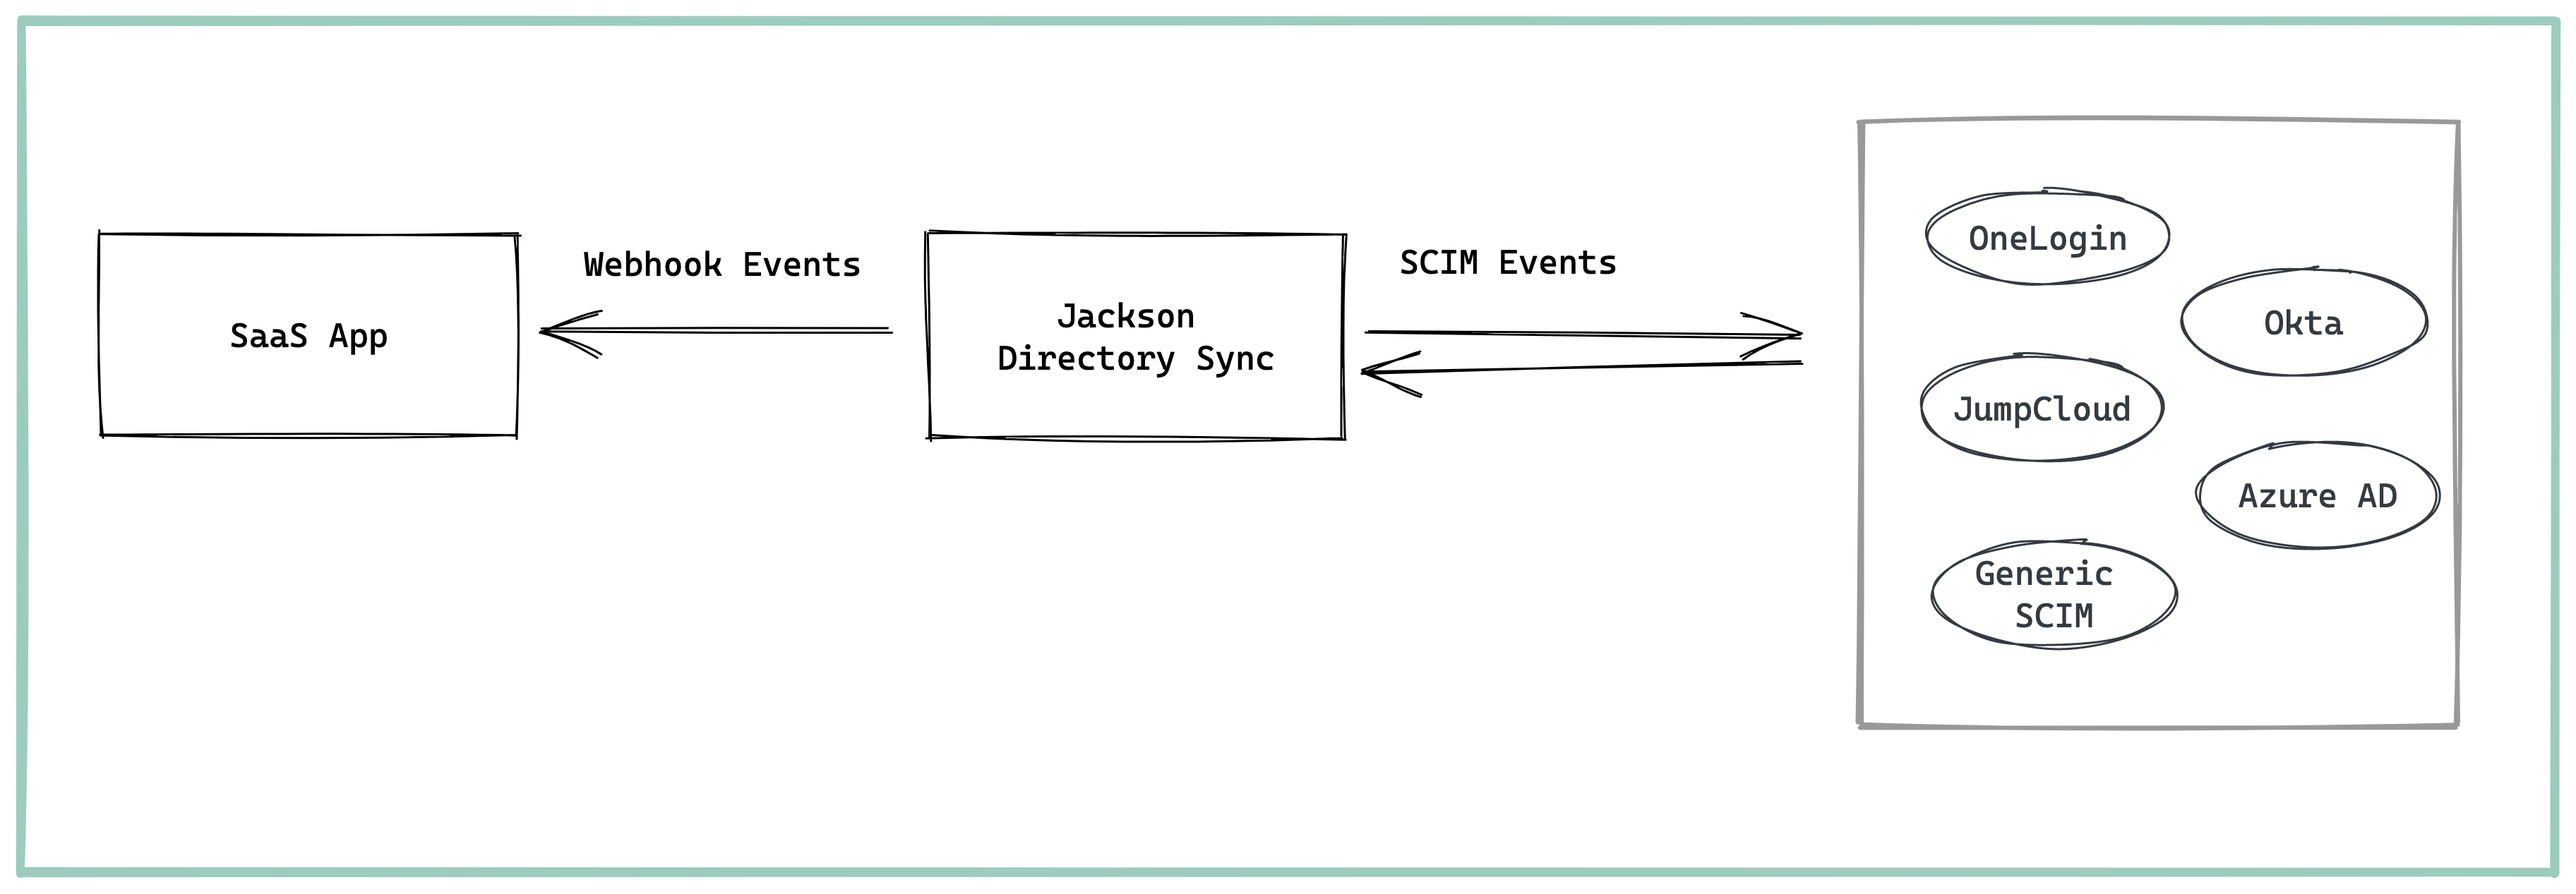
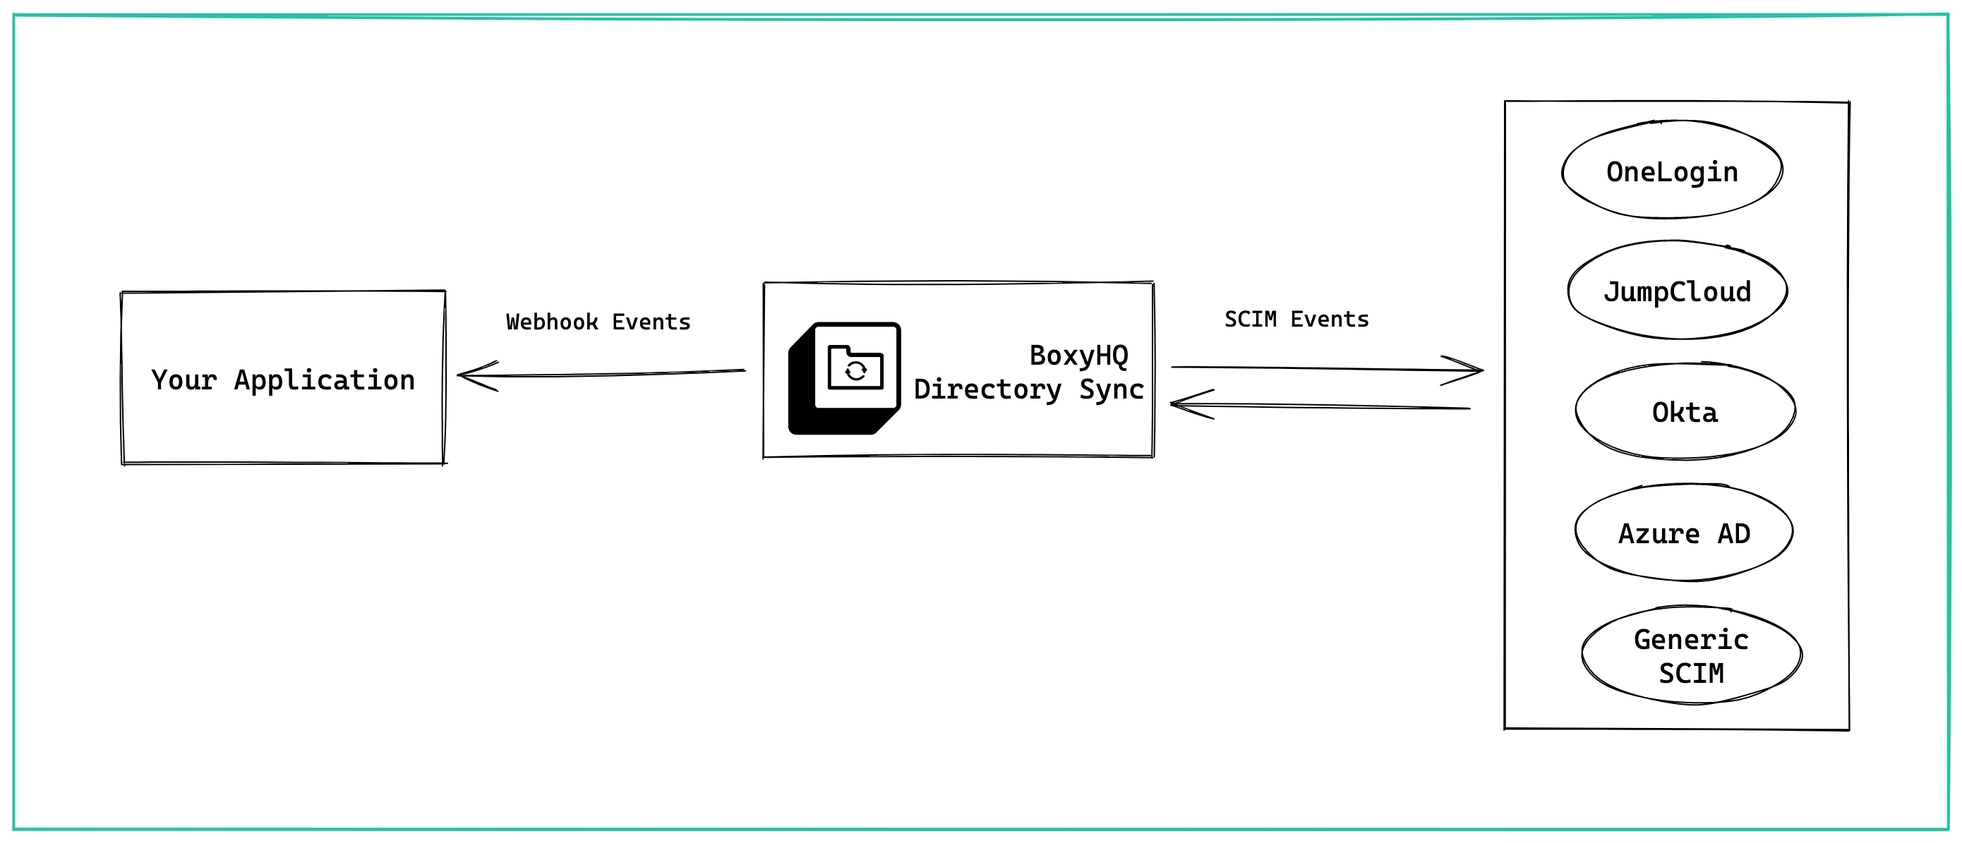
- updated images - added jackson arch diagram

diff --git a/src/pages/enterprise-sso.js b/src/pages/enterprise-sso.js
@@ -110,8 +110,8 @@ const EnterpriseSSO = () => {
       >
         <p>
           With our open-source solution, you can deploy Enterprise SSO with a
-          straightforward integration that connects to all IdPs. You simply
-          integrate with our product in a few lines of code.
+          straightforward integration that connects to all Identity Providers.
+          You simply integrate with our product in a few lines of code.
         </p>
         <p>Since it's self-hosted, you keep full control over your data.</p>
       </FeatureSection>

diff --git a/docs/jackson/overview.md b/docs/jackson/overview.md
@@ -10,6 +10,8 @@ Jackson implements SSO as an OAuth 2.0 flow, abstracting away all the complexiti
 
 ## Architecture
 
+![img alt](/img/enterprise-sso-arch.png)
+
 We have developed Jackson from scratch adopting a modular architecture as shown below. The business logic is separated into controllers which helps us in incremental adoption of features.
 
 ![img alt](/img/jackson-architecture.png)
